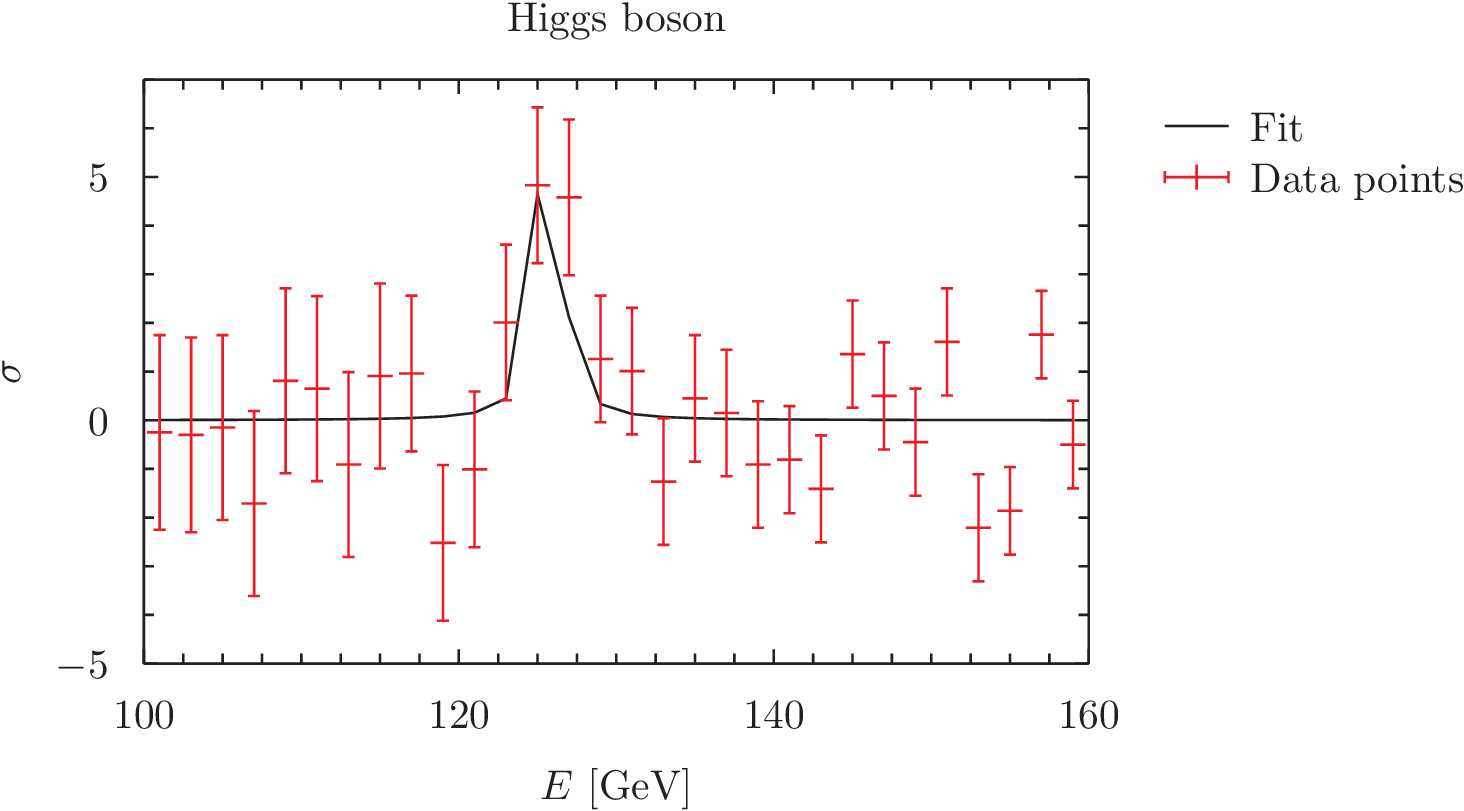
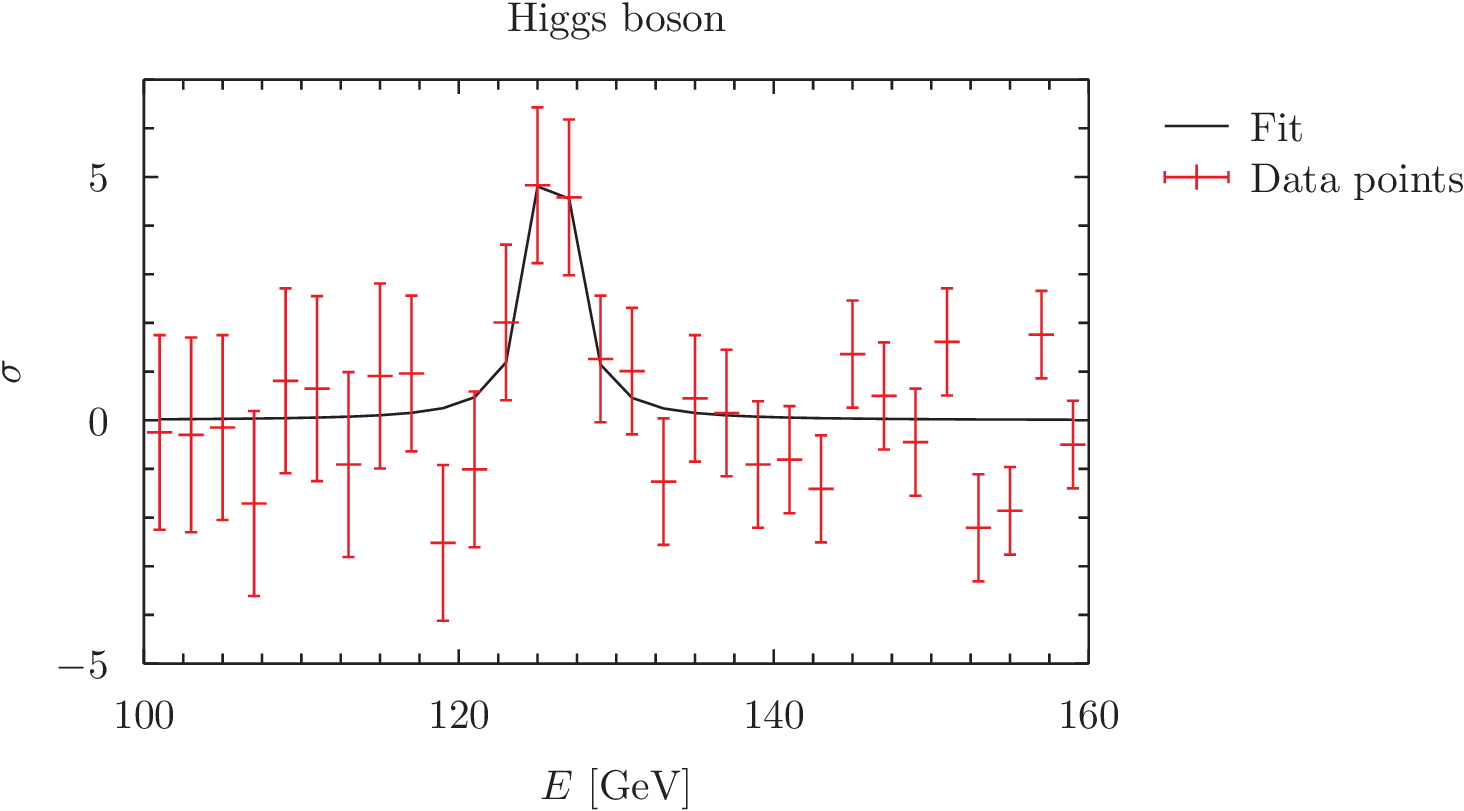
.

Changed region(s): [[0.3996, 0.4316, 0.707, 0.524], [0.3381, 0.2466, 0.3996, 0.4624], [0.123, 0.4624, 0.3381, 0.524]]

diff --git a/homework/minimization/main.c b/homework/minimization/main.c
@@ -14,11 +14,14 @@ int numberOfDataPoints;
 double *energyBW;
 double *crossSection;
 
-double simplex_test_function(double *values)
+double simplex_test_function(double *values) //(x-a)^2+(y-b)^2+1
 {
     double x = values[0];
     double y = values[0];
-
+    double a = 6;
+    double b = 13;
+    double functionValue = (x - a) * (x - a) + (y - b) * (y - b) + 1;
+    return functionValue;
 }
 
 double rosenbrock_valley(gsl_vector *values)//Minimum at (a,a^2) = (1,1)
@@ -116,12 +119,12 @@ int main(int argc, char *argv[])
 
     dimension = 3;
     gsl_vector *minimumBW = gsl_vector_alloc(dimension);
-    gsl_vector_set(minimumBW, 0, measuredMass + 1);
-    gsl_vector_set(minimumBW, 1, 2.7);
+    gsl_vector_set(minimumBW, 0, measuredMass + 1.1);
+    gsl_vector_set(minimumBW, 1, 2.6);
     gsl_vector_set(minimumBW, 2, 8);
 
     quasi_newton_method(deviation_function, minimumBW, tolerance);
-    printf("Initial value (m, Γ, A): (%g, %g, %g) \n", measuredMass + 1, 2.7, 8.0);
+    printf("Initial value (m, Γ, A): (%g, %g, %g) \n", measuredMass + 1.1, 2.6, 8.0);
     printf("Found Minima (m, Γ, A): (%g, %g, %g) \n\n", gsl_vector_get(minimumBW, 0), gsl_vector_get(minimumBW, 1),
            gsl_vector_get(minimumBW, 2));
 
@@ -134,13 +137,35 @@ int main(int argc, char *argv[])
     }
     fclose(outputFilestream);
 
-    printf("Fit can be seen in file higgsFit.png\n");
+    printf("Fit can be seen in file higgsFit.png\n\n");
 
 
     //PART C
-    printf("C: Implement downhill simplex method");
+    printf("C: Implement downhill simplex method\n\n");
 
+    printf("Testing simplex method on (x-5)^2+(y-8)^2+1\n");
+    dimension = 2;
+    int numberOfPoints = dimension + 1;
+    double **simplex = malloc(numberOfPoints * sizeof(double));
+    for (int i = 0; i < numberOfPoints; i++)
+    {
+        simplex[i] = malloc(dimension*sizeof(double));
+    }
 
+    //Simplex points
+    simplex[0][0] = 4;
+    simplex[0][1] = 10;
+    simplex[1][0] = 2;
+    simplex[1][1] = 2;
+    simplex[2][0] = -3;
+    simplex[2][1] = 1;
+
+    printf("Starting points (x,y): (%g,%g), (%g,%g), (%g,%g)\n",simplex[0][0],simplex[0][1],simplex[1][0],simplex[1][1],simplex[2][0],simplex[2][1]);
+
+    int numberOfSteps = downhill_simplex(dimension,simplex_test_function, simplex, tolerance);
+    printf("Found minimum (x,y): (%g,%g)\n", simplex[0][0], simplex[0][1]);
+    printf("Actual minimum (x,y): (%d,%d)\n\n",6,13);
+    printf("Steps for convergence: %d\n:",numberOfSteps);
 
     return 0;
 }

diff --git a/homework/minimization/minimization.c b/homework/minimization/minimization.c
@@ -327,3 +327,4 @@ int downhill_simplex(int dimension, double function(double *), double **simplex,
     }
     return numberOfSteps;
 }
+
